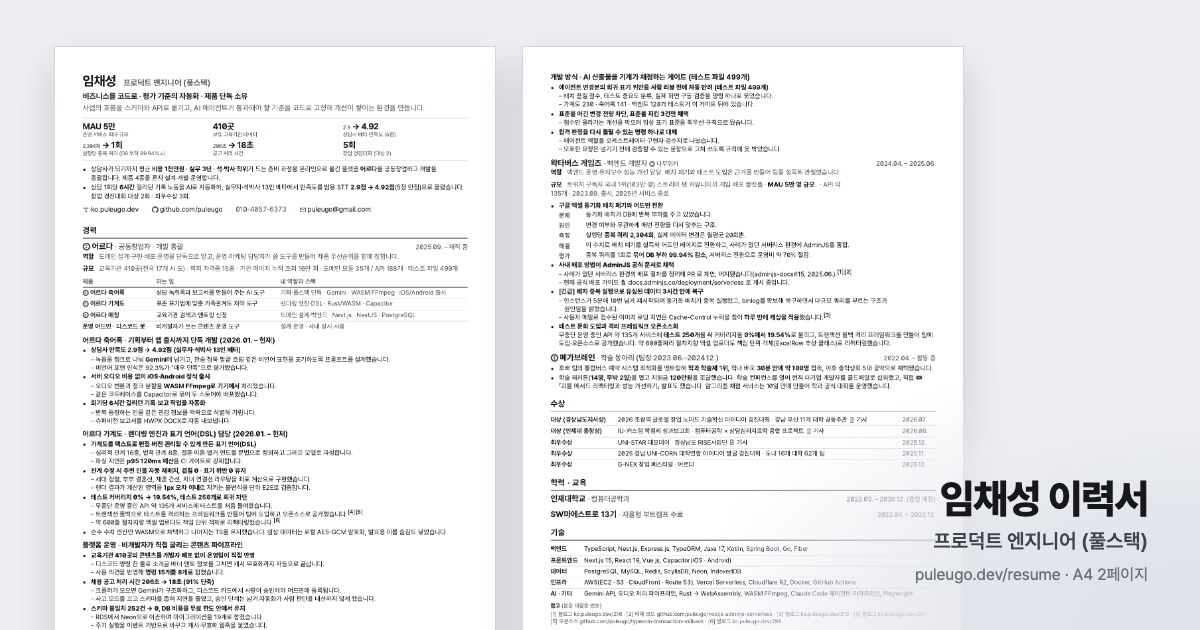
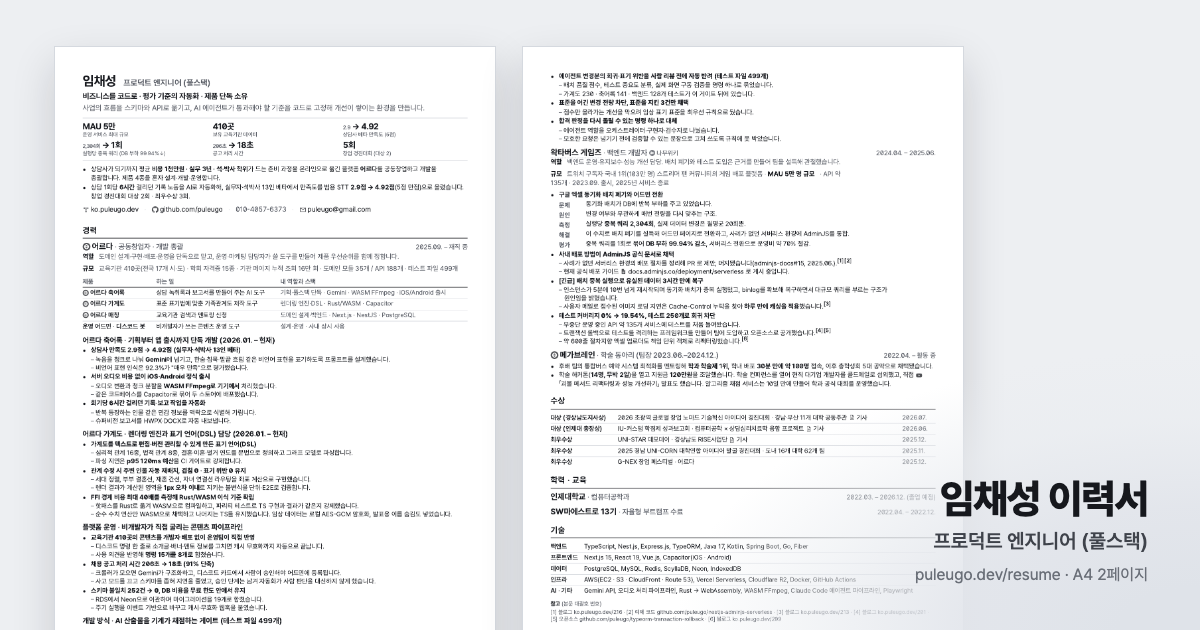
fix: 왁타버스 테스트 항목이 어르다 가계도로 잘못 들어간 문제 수정
- 직전 재구성 중 치환이 어긋나 테스트 커버리지 항목이 가계도 블록에 배치되고
  가계도의 Rust/WASM 이식 항목이 파편으로 남아 있었음
- 테스트 항목을 각주 4·5·6과 함께 왁타버스로 되돌리고 가계도 항목 복원

Claude-Session: https://claude.ai/code/session_01W7x6f6aizACV8L1Ey8iNMM

Changed region(s): [[0.4625, 0.0905, 0.7708, 0.9952], [0.0617, 0.7841, 0.37, 1.0], [0.74, 0.2413, 0.7708, 0.2714]]

diff --git a/resume/index.html b/resume/index.html
@@ -340,12 +340,9 @@
 					<li>세대 정렬, 부부 결혼선, 재혼 간선, 자녀 연결선 라우팅을 좌표 계산으로 구현했습니다.</li>
 					<li>렌더 결과가 계산된 영역을 <b>1px 오차 이내</b>로 지키는 불변식을 단위·E2E로 검증합니다.</li>
 				</ul></li>
-			<li class="task"><b>테스트 커버리지 <b>0% → 19.54%</b>, 테스트 250개로 회귀 차단</b>
+			<li class="task"><b>FFI 경계 비용 <b>최대 40배</b>를 측정해 Rust/WASM 이식 기준 확립</b>
 				<ul class="how">
-					<li>무중단 운영 중인 API 약 135개 서비스에 테스트를 처음 들여왔습니다.</li>
-					<li>트랜잭션 롤백으로 테스트를 격리하는 프레임워크를 만들어 팀에 도입하고 오픈소스로 공개했습니다.<sup class="footnote"><a href="https://ko.puleugo.dev/201" data-card="4" data-preview data-tip="블로그 「[Node.js] 트랜잭션을 활용한 테스트 격리 환경 구현하기」">4</a></sup><sup class="footnote"><a href="https://github.com/puleugo/typeorm-transaction-rollback" target="_blank" rel="noopener" data-tip="오픈소스 typeorm-transaction-rollback. 새 탭에서 열립니다">5</a></sup></li>
-					<li>약 600줄 절차지향 엑셀 업로더도 책임 단위 객체로 리팩터링했습니다.<sup class="footnote"><a href="https://ko.puleugo.dev/209" data-card="6" data-preview data-tip="블로그 「괴물 메서드 리팩터링과 성능개선하기」">6</a></sup></li>
-				</ul></li>
+					<li>핫패스를 Rust로 옮겨 WASM으로 컴파일하고, 파리티 테스트로 TS 구현과 결과가 같은지 강제했습니다.</li>
 					<li>순수 수치 연산만 WASM으로 채택하고 나머지는 TS를 유지했습니다. 임상 데이터는 로컬 AES-GCM 암호화, 발표용 이름 숨김도 넣었습니다.</li>
 				</ul></li>
 			</ul>
@@ -419,7 +416,12 @@
 					<li>인스턴스가 5분에 10번 넘게 재시작되며 동기화 배치가 중복 실행됐고, binlog를 확보해 복구하면서 대규모 쿼리를 부르는 구조가 원인임을 밝혔습니다.</li>
 					<li>사용자 메일로 접수된 이미지 로딩 지연은 Cache-Control 누락을 찾아 <b>하루 만에 캐싱을 적용</b>했습니다.<sup class="footnote"><a href="https://ko.puleugo.dev/213" data-card="3" data-preview data-tip="블로그 「[CloudFlare] 이미지 로드 속도 향상하기」">3</a></sup></li>
 				</ul></li>
-		<li class="task"><b>테스트 문화 도입과 격리 프레임워크 오픈소스화</b>무중단 운영 중인 API 약 135개 서비스에 <b>테스트 250개</b>를 써 커버리지를 <b>0%에서 19.54%</b>로 올리고, 트랜잭션 롤백 격리 프레임워크를 만들어 팀에 도입·오픈소스로 공개했습니다. 약 600줄짜리 절차지향 엑셀 업로더도 책임 단위 객체(ExcelRow 추상 클래스)로 리팩터링했습니다.</li>
+		<li class="task"><b>테스트 커버리지 <b>0% → 19.54%</b>, 테스트 250개로 회귀 차단</b>
+				<ul class="how">
+					<li>무중단 운영 중인 API 약 135개 서비스에 테스트를 처음 들여왔습니다.</li>
+					<li>트랜잭션 롤백으로 테스트를 격리하는 프레임워크를 만들어 팀에 도입하고 오픈소스로 공개했습니다.<sup class="footnote"><a href="https://ko.puleugo.dev/201" data-card="4" data-preview data-tip="블로그 「[Node.js] 트랜잭션을 활용한 테스트 격리 환경 구현하기」">4</a></sup><sup class="footnote"><a href="https://github.com/puleugo/typeorm-transaction-rollback" target="_blank" rel="noopener" data-tip="오픈소스 typeorm-transaction-rollback. 새 탭에서 열립니다">5</a></sup></li>
+					<li>약 600줄 절차지향 엑셀 업로더도 책임 단위 객체로 리팩터링했습니다.<sup class="footnote"><a href="https://ko.puleugo.dev/209" data-card="6" data-preview data-tip="블로그 「괴물 메서드 리팩터링과 성능개선하기」">6</a></sup></li>
+				</ul></li>
 	</ul>
 </div>
 
